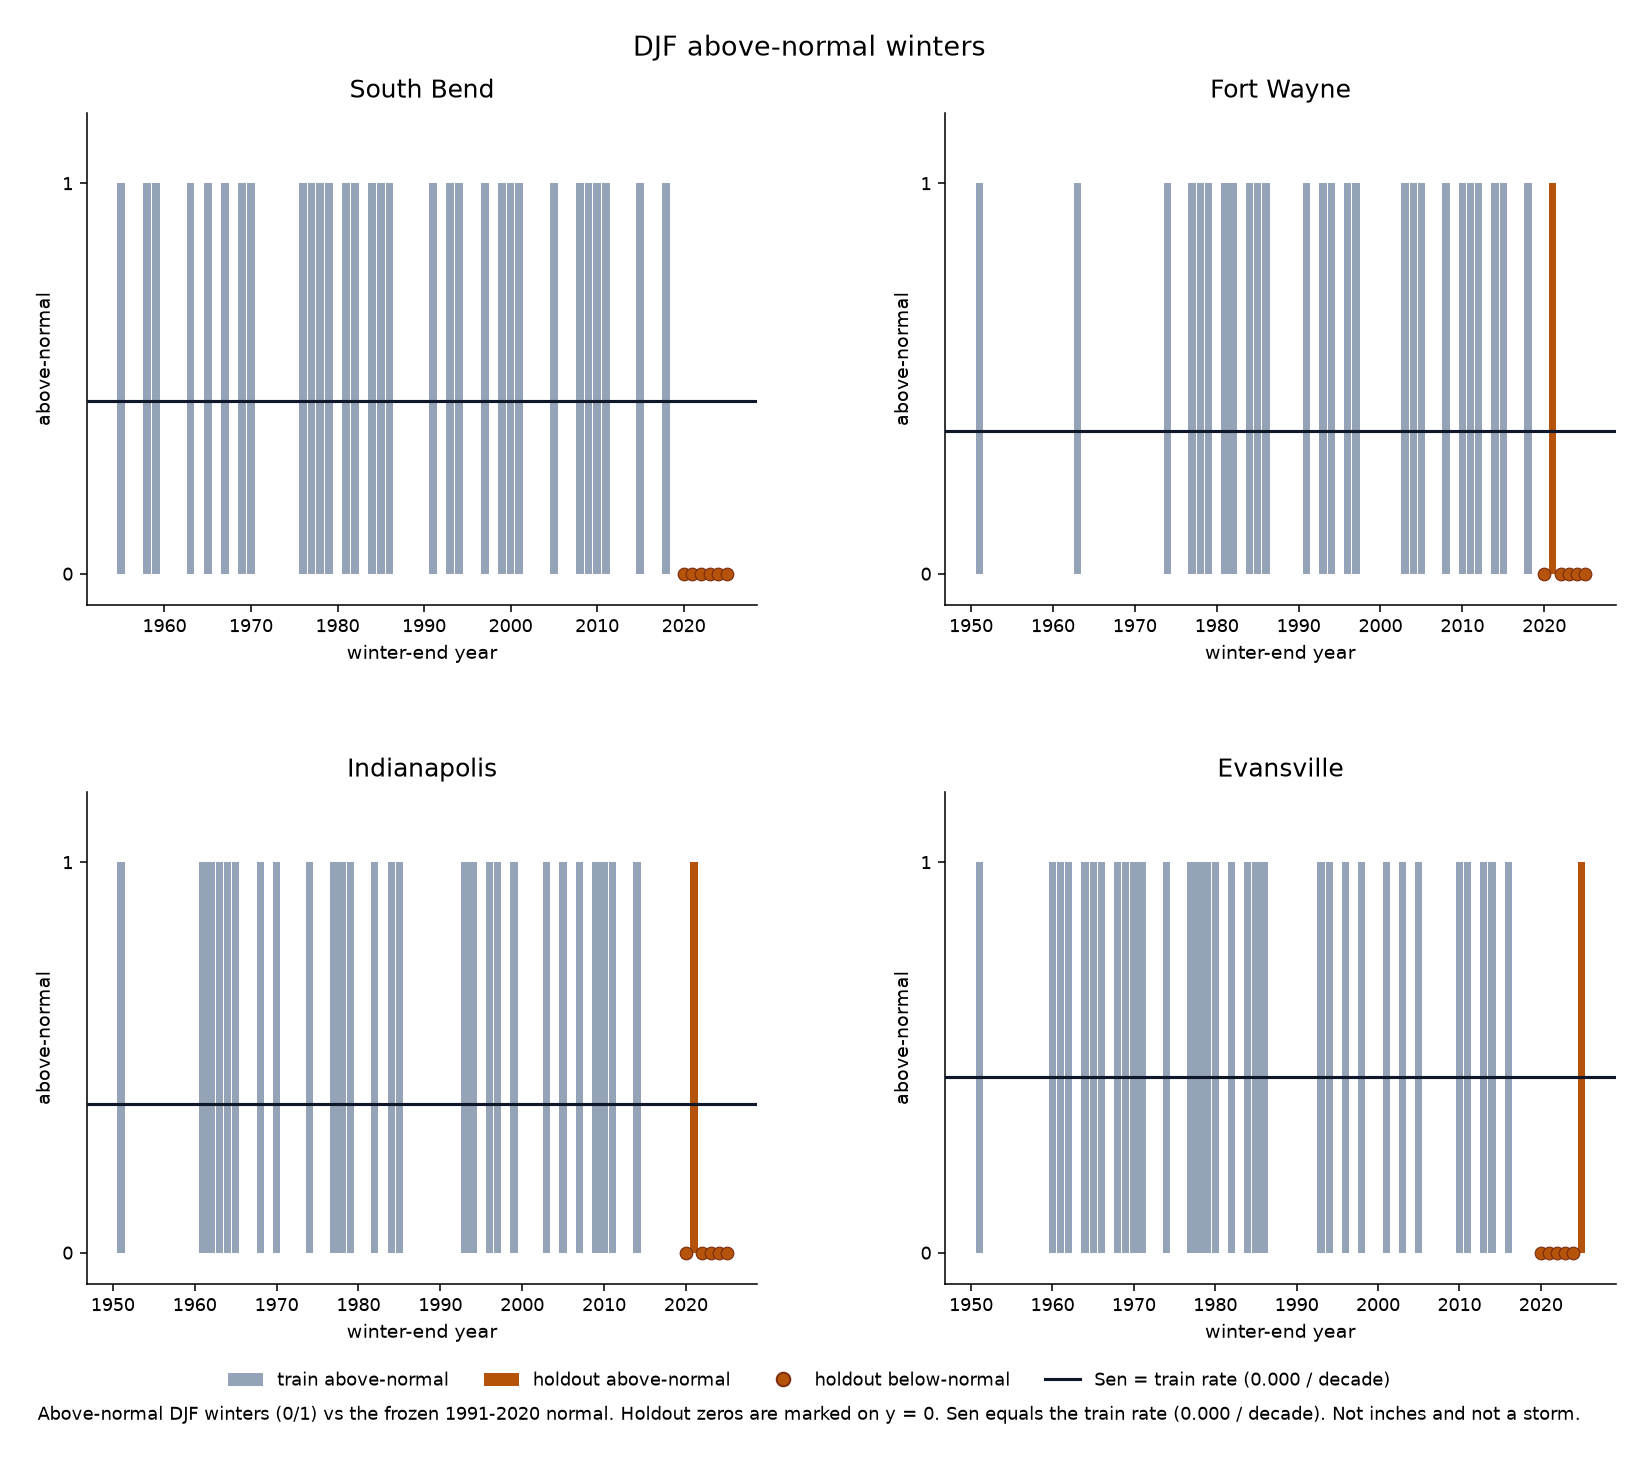
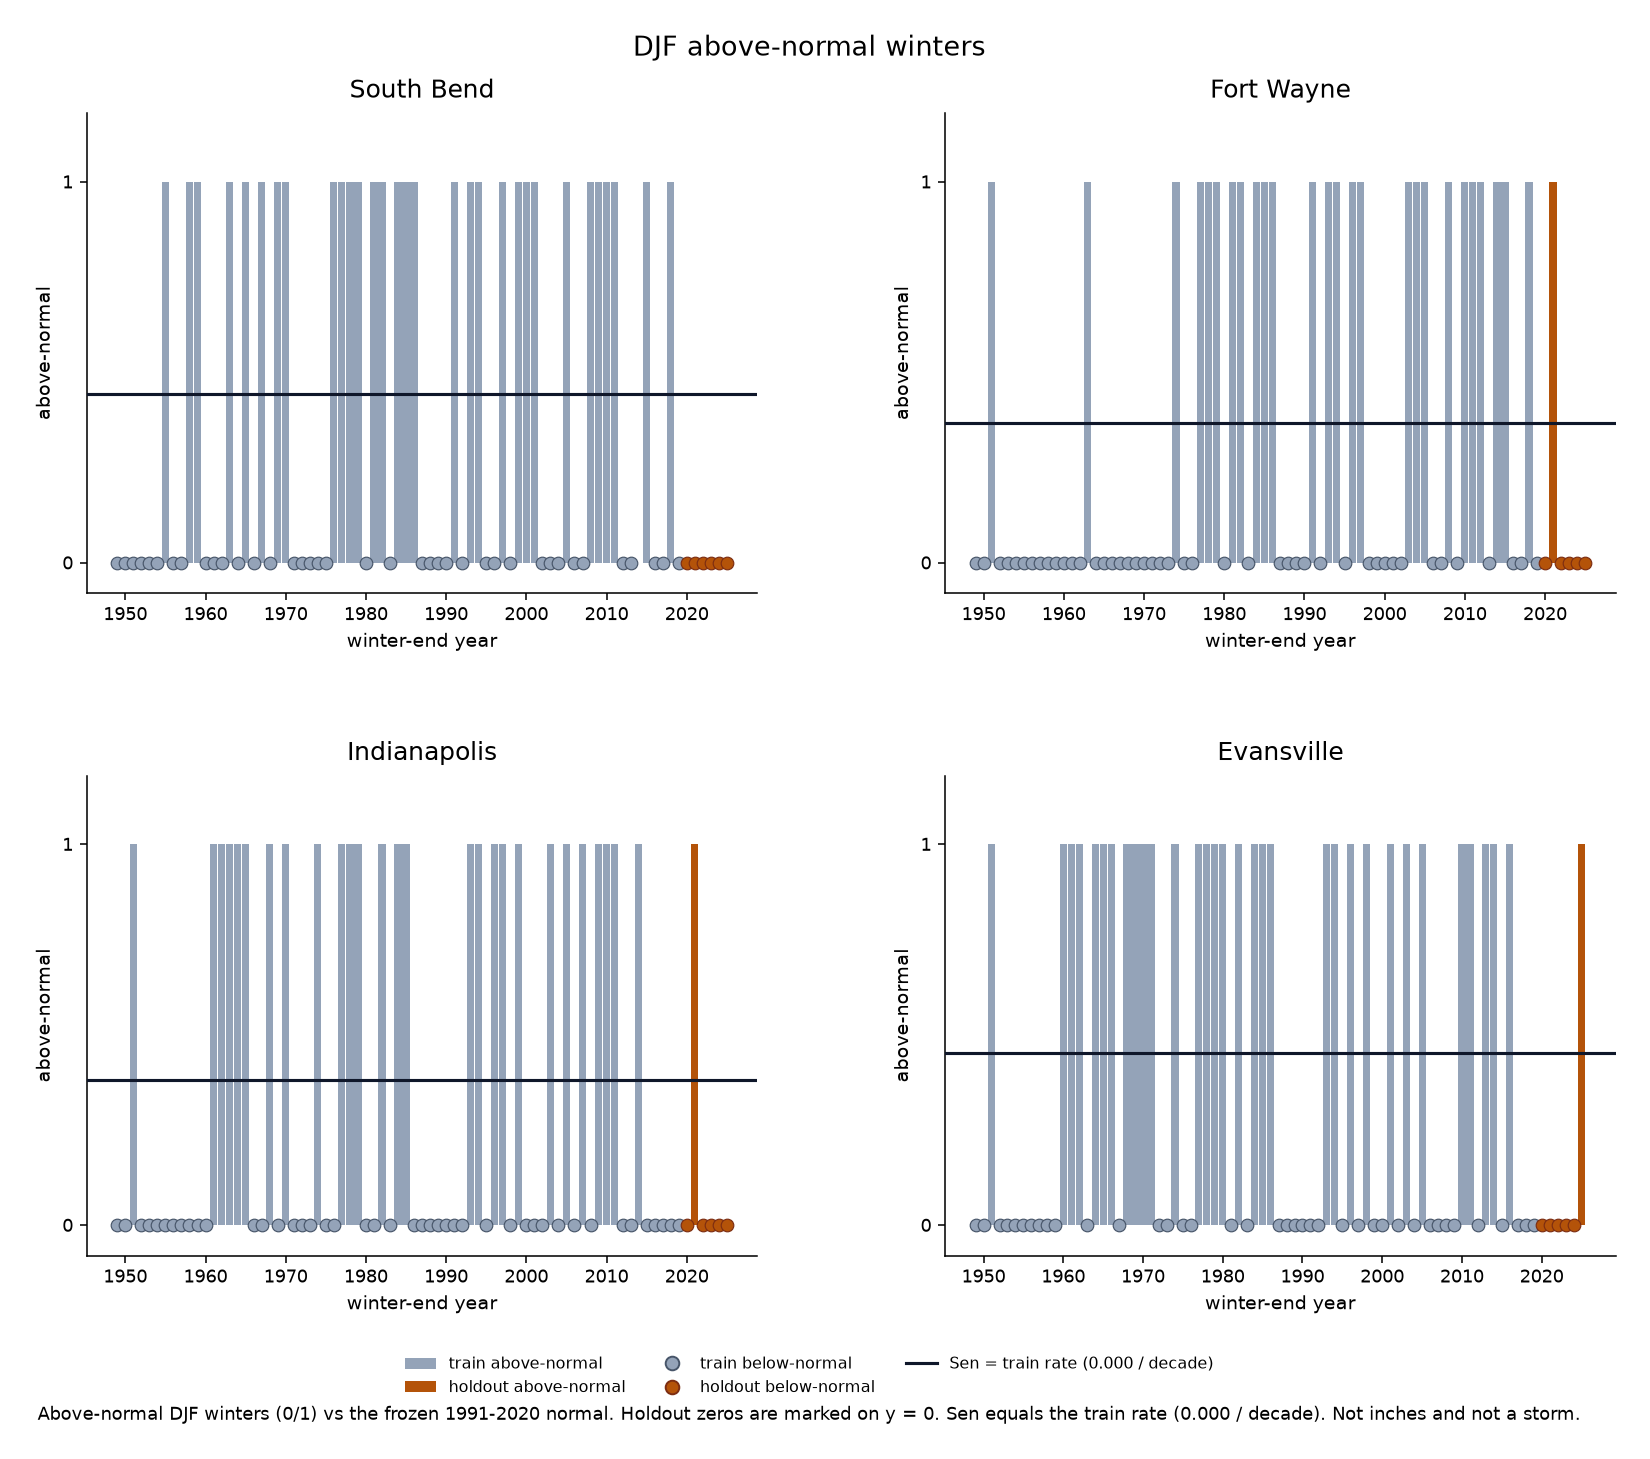
Restamp README figures so the locked finding is readable.
Keep science JSON unchanged. Bars and maps now carry the contest
(RMSE vs yesterday, CPC vs equal chance, two-answer Re-TRAC, fixture
HWM titles). Captions stay claim-scanned.

diff --git a/src/snowfreq/figure.py b/src/snowfreq/figure.py
@@ -13,7 +13,6 @@ from snowfreq.config import (
     CORE_STATIONS,
     FIXTURE_BARS_SUBTITLE,
     FIXTURE_SERIES_SUBTITLE,
-    LIVE_BARS_SUBTITLE,
     LIVE_SERIES_SUBTITLE,
     MAX_FIGURES,
     TRAIN_LAST_WINTER,
@@ -70,8 +69,20 @@ def draw_series(fit: dict[str, Any], *, title: str, subtitle: str):
         ha = np.asarray([int(r["above"]) for r in hold], dtype=float)
         if ty.size:
             ones = ta >= 0.5
+            t0 = ~ones
             if np.any(ones):
                 ax.bar(ty[ones], ta[ones], width=0.9, color="#94a3b8", linewidth=0, zorder=2)
+            if np.any(t0):
+                ax.scatter(
+                    ty[t0],
+                    np.zeros(int(t0.sum())),
+                    s=42,
+                    c="#94a3b8",
+                    marker="o",
+                    zorder=5,
+                    edgecolors="#475569",
+                    linewidths=0.6,
+                )
         if hy.size:
             h1 = ha >= 0.5
             h0 = ~h1
@@ -109,6 +120,16 @@ def draw_series(fit: dict[str, Any], *, title: str, subtitle: str):
             [0],
             [0],
             marker="o",
+            color="#94a3b8",
+            markeredgecolor="#475569",
+            linestyle="None",
+            markersize=7,
+            label="train below-normal",
+        ),
+        Line2D(
+            [0],
+            [0],
+            marker="o",
             color="#b45309",
             markeredgecolor="#7c2d12",
             linestyle="None",
@@ -123,15 +144,15 @@ def draw_series(fit: dict[str, Any], *, title: str, subtitle: str):
         handles.append(Line2D([0], [0], color="#334155", lw=1.2, ls="--", label="train rate"))
     fig.legend(
         handles=handles,
-        fontsize=9,
+        fontsize=8,
         loc="lower center",
-        ncol=len(handles),
+        ncol=3,
         frameon=False,
-        bbox_to_anchor=(0.5, 0.015),
+        bbox_to_anchor=(0.5, 0.012),
     )
     fig.suptitle(title, fontsize=14, y=0.975)
     fig.text(0.5, 0.005, subtitle, ha="center", fontsize=9)
-    fig.subplots_adjust(left=0.07, right=0.98, top=0.92, bottom=0.10, hspace=0.38, wspace=0.28)
+    fig.subplots_adjust(left=0.07, right=0.98, top=0.92, bottom=0.12, hspace=0.38, wspace=0.28)
     return fig
 
 
@@ -147,6 +168,17 @@ def write_series(dest: Path, *, fit: dict[str, Any], title: str, subtitle: str) 
     return dest
 
 
+def live_bars_subtitle(fit: dict[str, Any]) -> str:
+    hold = fit.get("holdout") or {}
+    sen = float((hold.get("slope") or {}).get("brier") or 0.0)
+    rate = float((hold.get("rate") or {}).get("brier") or 0.0)
+    last = float((hold.get("last_year") or {}).get("brier") or 0.0)
+    return (
+        f"Pooled Brier: Sen {sen:.4f} = train rate {rate:.4f} vs last winter {last:.3f}. "
+        "Probability error, not a decline story."
+    )
+
+
 def draw_bars(fit: dict[str, Any], *, title: str, subtitle: str):
     import matplotlib
 
@@ -155,22 +187,82 @@ def draw_bars(fit: dict[str, Any], *, title: str, subtitle: str):
 
     by_st = fit["by_station"]
     order, labels = bar_station_labels(by_st)
+    hold = fit.get("holdout") or {}
+
+    def _brier_of(block: dict[str, Any] | None) -> float:
+        if not block or "brier" not in block or block["brier"] is None:
+            return float("nan")
+        return float(block["brier"])
+
+    sen_p = _brier_of(hold.get("slope"))
+    rate_p = _brier_of(hold.get("rate"))
+    last_p = _brier_of(hold.get("last_year"))
+    fig, (ax_p, ax_s) = plt.subplots(
+        2,
+        1,
+        figsize=(7.4, 7.0),
+        gridspec_kw={"height_ratios": [1.15, 1.0]},
+    )
+    names = ["Sen slope", "train rate", "last winter"]
+    pooled = np.array([sen_p, rate_p, last_p], dtype=float)
+    colors = ["#0f172a", "#64748b", "#b45309"]
+    plot_vals = np.where(np.isfinite(pooled), pooled, 0.0)
+    bars = ax_p.bar(names, plot_vals, color=colors, width=0.62, edgecolor="#0f172a", linewidth=0.3)
+    for rect, val in zip(bars, pooled):
+        if not np.isfinite(val):
+            continue
+        ax_p.text(
+            rect.get_x() + rect.get_width() / 2,
+            val + 0.004,
+            f"{val:.4f}",
+            ha="center",
+            va="bottom",
+            fontsize=9,
+        )
+    if np.isfinite(sen_p) and np.isfinite(rate_p) and abs(sen_p - rate_p) < 1e-9:
+        ax_p.text(
+            0.5,
+            max(sen_p, rate_p) + 0.022,
+            "Sen = rate",
+            ha="center",
+            va="bottom",
+            fontsize=9,
+        )
+    finite = [v for v in (sen_p, rate_p, last_p) if np.isfinite(v)]
+    hero = max([v for v in (sen_p, rate_p) if np.isfinite(v)] or [1e-6])
+    ymax = max(finite or [hero]) * 1.28
+    if np.isfinite(last_p) and last_p > 1.35 * hero:
+        ymax = 1.35 * hero
+        ax_p.text(
+            2,
+            ymax * 0.96,
+            f"last {last_p:.3f}",
+            ha="center",
+            va="top",
+            fontsize=8,
+            color="#b45309",
+        )
+    ax_p.set_ylim(0.0, ymax if np.isfinite(ymax) else 1.0)
+    ax_p.set_ylabel("Brier")
+    ax_p.set_title("Pooled holdout (four cores)", fontsize=10)
+    ax_p.tick_params(axis="x", labelsize=9)
+
     x = np.arange(len(order), dtype=float)
     width = 0.24
-    fig, ax = plt.subplots(figsize=(7.4, 4.8))
     slope = [by_st[sid]["slope"]["brier"] for sid in order]
     rate = [by_st[sid]["rate"]["brier"] for sid in order]
     last = [by_st[sid]["last_year"]["brier"] for sid in order]
-    ax.bar(x - width, slope, width, color="#0f172a", label="Sen slope")
-    ax.bar(x, rate, width, color="#64748b", label="train rate")
-    ax.bar(x + width, last, width, color="#b45309", label="last winter")
-    ax.set_xticks(x)
-    ax.set_xticklabels(labels, fontsize=8, rotation=28, ha="right")
-    ax.set_ylabel("Brier")
-    ax.legend(fontsize=7, loc="upper right")
-    ax.tick_params(axis="x", pad=2)
+    ax_s.bar(x - width, slope, width, color="#0f172a", label="Sen slope")
+    ax_s.bar(x, rate, width, color="#64748b", label="train rate")
+    ax_s.bar(x + width, last, width, color="#b45309", label="last winter")
+    ax_s.set_xticks(x)
+    ax_s.set_xticklabels(labels, fontsize=8, rotation=28, ha="right")
+    ax_s.set_ylabel("Brier")
+    ax_s.set_title("Per station", fontsize=9)
+    ax_s.legend(fontsize=7, loc="upper right")
+    ax_s.tick_params(axis="x", pad=2)
     fig.suptitle(title, fontsize=11)
-    fig.subplots_adjust(bottom=0.28, top=0.86)
+    fig.subplots_adjust(bottom=0.16, top=0.90, hspace=0.48)
     fig.text(0.5, 0.03, subtitle, ha="center", fontsize=8)
     return fig
 
@@ -200,7 +292,7 @@ def write_two(log_dir: Path, *, fit: dict[str, Any], live: bool) -> list[str]:
         log_dir / "brier_bars.png",
         fit=fit,
         title="Holdout Brier",
-        subtitle=LIVE_BARS_SUBTITLE if live else FIXTURE_BARS_SUBTITLE,
+        subtitle=live_bars_subtitle(fit) if live else FIXTURE_BARS_SUBTITLE,
     )
     paths = [series, bars]
     _cap(len(paths))

diff --git a/tests/test_pipeline.py b/tests/test_pipeline.py
@@ -75,11 +75,16 @@ def test_bar_labels_are_city_names_and_do_not_overlap() -> None:
     fig = draw_bars(fit, title="Holdout Brier", subtitle=LIVE_BARS_SUBTITLE)
     fig.canvas.draw()
     renderer = fig.canvas.get_renderer()
-    for ax in fig.axes:
-        boxes = [t.get_window_extent(renderer=renderer) for t in ax.get_xticklabels()]
-        assert len(boxes) == 4
-        for left, right in zip(boxes, boxes[1:]):
-            assert not left.overlaps(right), (left, right)
+    axes = list(fig.axes)
+    assert len(axes) == 2
+    pool, st_ax = axes
+    pool_labels = [t.get_text() for t in pool.get_xticklabels()]
+    assert pool_labels == ["Sen slope", "train rate", "last winter"]
+    assert any("Sen = rate" in t.get_text() for t in pool.texts)
+    boxes = [t.get_window_extent(renderer=renderer) for t in st_ax.get_xticklabels()]
+    assert len(boxes) == 4
+    for left, right in zip(boxes, boxes[1:]):
+        assert not left.overlaps(right), (left, right)
     import matplotlib.pyplot as plt
 
     plt.close(fig)

diff --git a/README.md b/README.md
@@ -14,11 +14,11 @@ Cores: South Bend `USW00014848`, Fort Wayne `USW00014827`, Indianapolis `USW0009
 
 ![Figure 1. Holdout and train 0/1 series](logs/in_live/series.png)
 
-Figure 1. Train and holdout above-normal DJF winters (0/1) versus winter-end year. Holdout zeros are orange marks on y = 0, so South Bend 0/6 is visible. Sen equals the train rate (0.000 / decade): one line, not two. Frozen 1991-2020 normal is the classifier. Above-normal winters, not inches and not a storm.
+Figure 1. Train and holdout above-normal DJF winters (0/1) versus winter-end year. Holdout zeros are orange marks on y = 0, so South Bend 0/6 is visible. Train zeros sit on y = 0 the same way. Sen equals the train rate (0.000 / decade): one line, not two. Frozen 1991-2020 normal is the classifier. Above-normal winters, not inches and not a storm.
 
 ![Figure 2. Holdout Brier bars](logs/in_live/brier_bars.png)
 
-Figure 2. Holdout Brier. Sen slope vs train-era rate vs last winter. Probability error, not a decline story.
+Figure 2. Pooled holdout Brier. Sen 0.1947 equals the train-era rate 0.1947 vs last winter 0.208. Probability error, not a decline story.
 
 ## Live skill (held-out winters)
 
